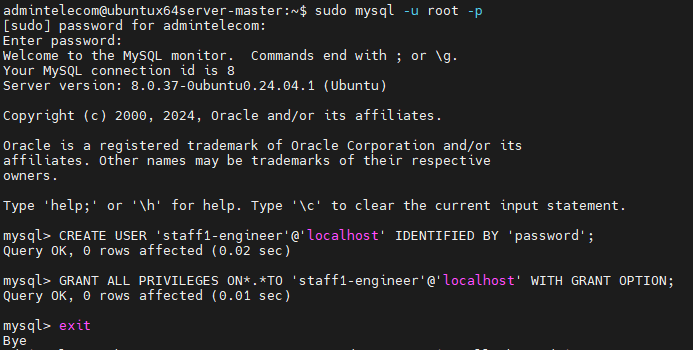
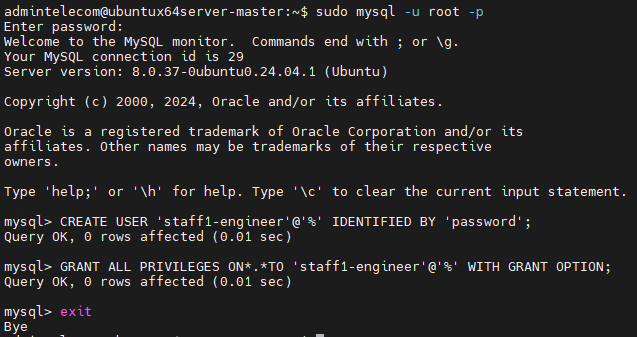
05/07/24 - Simulation success up to testing database connections

diff --git a/Database-Replication-Simulation/mysql-test-connections.py b/Database-Replication-Simulation/mysql-test-connections.py
@@ -1,0 +1,10 @@
+import mysql.connector
+
+mydb = mysql.connector.connect(
+  host="192.168.129.129",
+  port=3306,
+  user="staff1-engineer",
+  password="password",
+)
+
+print(mydb)

diff --git a/Database-Replication-Simulation/terminal-command.md b/Database-Replication-Simulation/terminal-command.md
@@ -8,7 +8,7 @@
 
 ### Installing ifconfig
 
-~~~
+~~~bash
 sudo apt-install net-tools
 ~~~
 
@@ -20,13 +20,13 @@ sudo apt-install net-tools
 
 **Install**
 
-~~~
+~~~bash
 sudo apt install mysql-server
 ~~~
 
 **Check status**
 
-~~~
+~~~bash
 sudo service mysql status
 ~~~
 ### Create a New User and Grant Permissions in MySQL
@@ -35,18 +35,18 @@ sudo service mysql status
 [**click here for details**](https://www.digitalocean.com/community/tutorials/how-to-create-a-new-user-and-grant-permissions-in-mysql)
 
 **Login using user root, password are the same with your linux login password**
-~~~
+~~~bash
 sudo mysql -u root -p
 ~~~
 
 **Create user with password also with enabling permissions**
 
-For this configuration, I'm using user: staff1-engineer | pwd: password
+For this configuration, I'm using user: staff1-engineer | pwd: password | % = can be accesesed on all network
+~~~sql
+CREATE USER 'staff1-engineer'@'%' IDENTIFIED BY 'password';
 ~~~
-CREATE USER 'staff1-engineer'@'localhost' IDENTIFIED BY 'password';
-~~~
-~~~
-GRANT ALL PRIVILEGES ON*.*TO 'staff1-engineer'@'localhost' WITH GRANT OPTION;
+~~~sql
+GRANT ALL PRIVILEGES ON*.*TO 'staff1-engineer'@'%' WITH GRANT OPTION;
 ~~~
 
 **Installing phpMyAdmin**
@@ -56,4 +56,49 @@ GRANT ALL PRIVILEGES ON*.*TO 'staff1-engineer'@'localhost' WITH GRANT OPTION;
 [**click here for details**](https://www.hostinger.com/tutorials/how-to-install-and-setup-phpmyadmin-on-ubuntu)
 ~~~
 sudo apt-get install phpmyadmin
+~~~
+
+**Installing MySQL Connector Driver for Python**
+~~~python
+pip install mysql-connector-python
+~~~
+**Configure MySQL to Listen on All Interfaces**
+
+[**back to Database Replication - Tools and materials that need to be prepared**](/Database-Replication-Simulation/readme.md)
+~~~bash
+sudo nano /etc/mysql/mysql.conf.d/mysqld.cnf
+~~~
+Locate the bind-address Directive: Find the line that starts with bind-address. By default, it's set to 127.0.0.1, limiting MySQL to localhost connections only
+~~~
+bind-address = 0.0.0.0
+~~~
+
+**Check hosts binding addresses**
+
+[**back to Database Replication - Tools and materials that need to be prepared**](/Database-Replication-Simulation/readme.md)
+~~~bash
+netstat -tan
+~~~
+
+**mysql-test-connections.py**
+
+[**back to Database Replication - Tools and materials that need to be prepared**](/Database-Replication-Simulation/readme.md)
+~~~python
+import mysql.connector
+
+mydb = mysql.connector.connect(
+  host="your.ip-address",
+  port=3306,
+  user="your.password",
+  password="password",
+)
+
+print(mydb)
+~~~
+
+**Test database connections from remote address**
+
+[**back to Database Replication - Tools and materials that need to be prepared**](/Database-Replication-Simulation/readme.md)
+~~~python
+python mysql-test-connections.py
 ~~~

diff --git a/Database-Replication-Simulation/readme.md b/Database-Replication-Simulation/readme.md
@@ -1,5 +1,7 @@
 # Database Replication - Tools and materials that need to be prepared
 
+## [**back to Linux-Engineer-Applied-Practice**](../README.md)
+
 ## Use cases knowledge
 
 <justify>
@@ -121,11 +123,37 @@ In preview button on the bottom left, you can use that syntax output if you want
 
 <br>
 
-<b>B. Simulate sending data MySQL query using Python </b></br>
+<b>B. Simulate sending MySQL query data using Python </b></br>
 
 <left>
 8. In this particular simulation, I'm going to make scenario like this:
-<br>- The database and the table we setup earlier is the server</br>
+<br>- The database and the table we setup earlier is the server.
 <br>- We will access the database from outside the server using the remote ip
-that I have used already in ssh tunnel</br>
+that I have used already in ssh tunnel
+<br>- Perform sending a random dummy data in every 5 minutes inside MySQL
+database.</br>
+
 </left>
+<br>
+<left>
+9. To be able to perform the simulation, you need to have python installed in PATH, install mysql-connector, allowing the firewall inside the database server and having the syntax to be able to perform MySQL query. Below here you can pay attention to make sure you will not mess up with a bunch of errors.
+</br></left>
+
+([**Commands are putting up here**](../Database-Replication-Simulation/terminal-command.md))
+<center>
+
+![Image When installing Python](/image-files/installation-python.png)
+
+
+![Image When MySQL Connector](/image-files/installation-python-2.png)
+
+![Image When MySQL Connector](/image-files/mysql-setup-firewall-3.png)
+
+![Image When Configure MySQL Firewall](/image-files/mysql-setup-firewall.png)
+
+![Image When Configure MySQL Firewall](/image-files/mysql-setup-firewall-2.png)
+
+![Image of MySQL Connection Test](/image-files/mysql-test-connections-py.png)
+
+![Image of MySQL Connection Test](/image-files/mysql-test-connections-py-2.png)
+</center>
